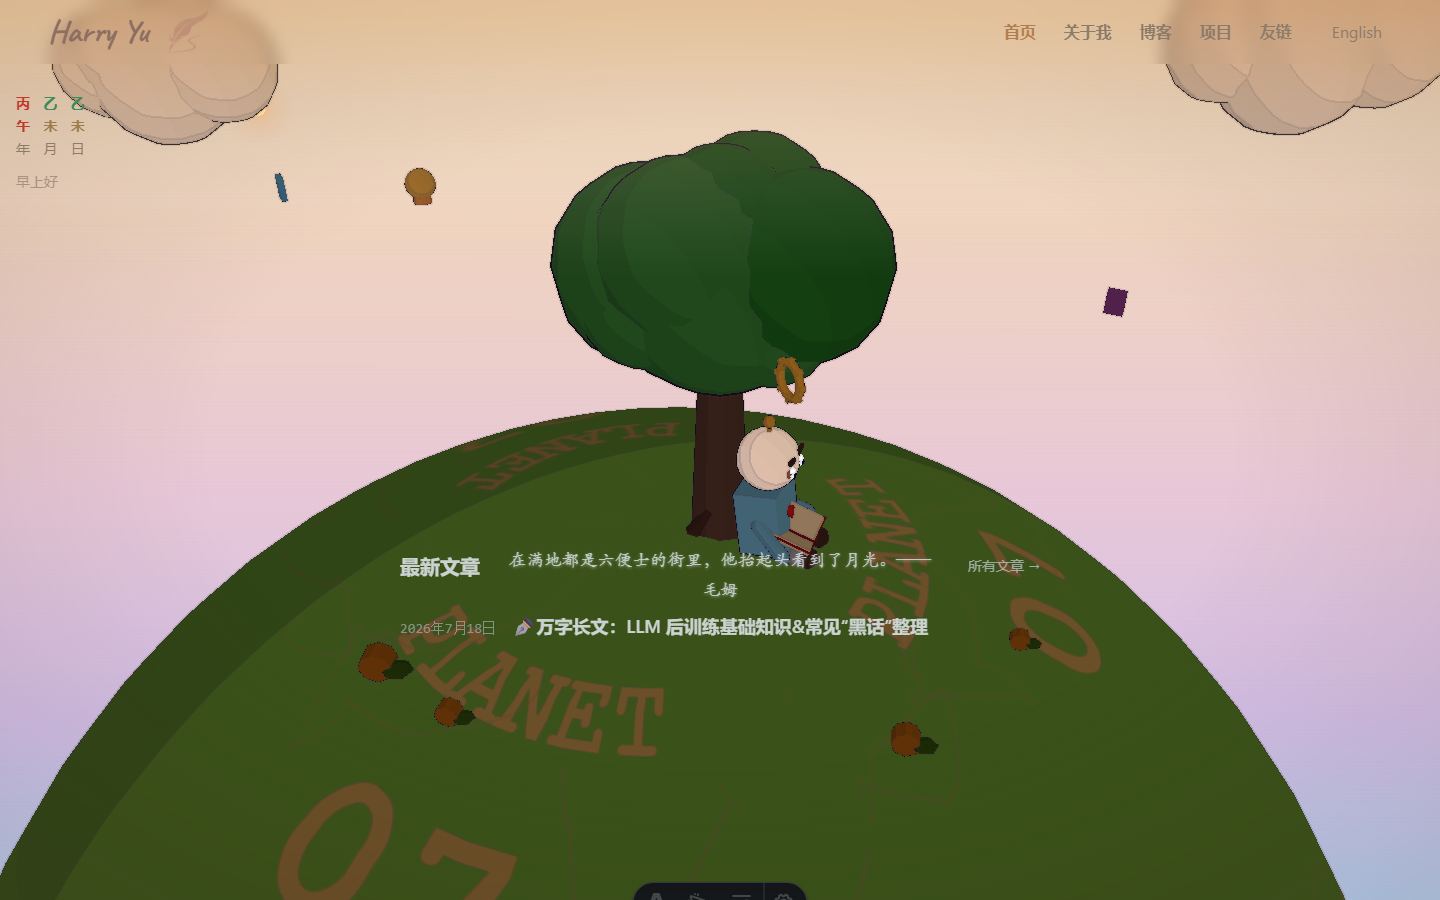
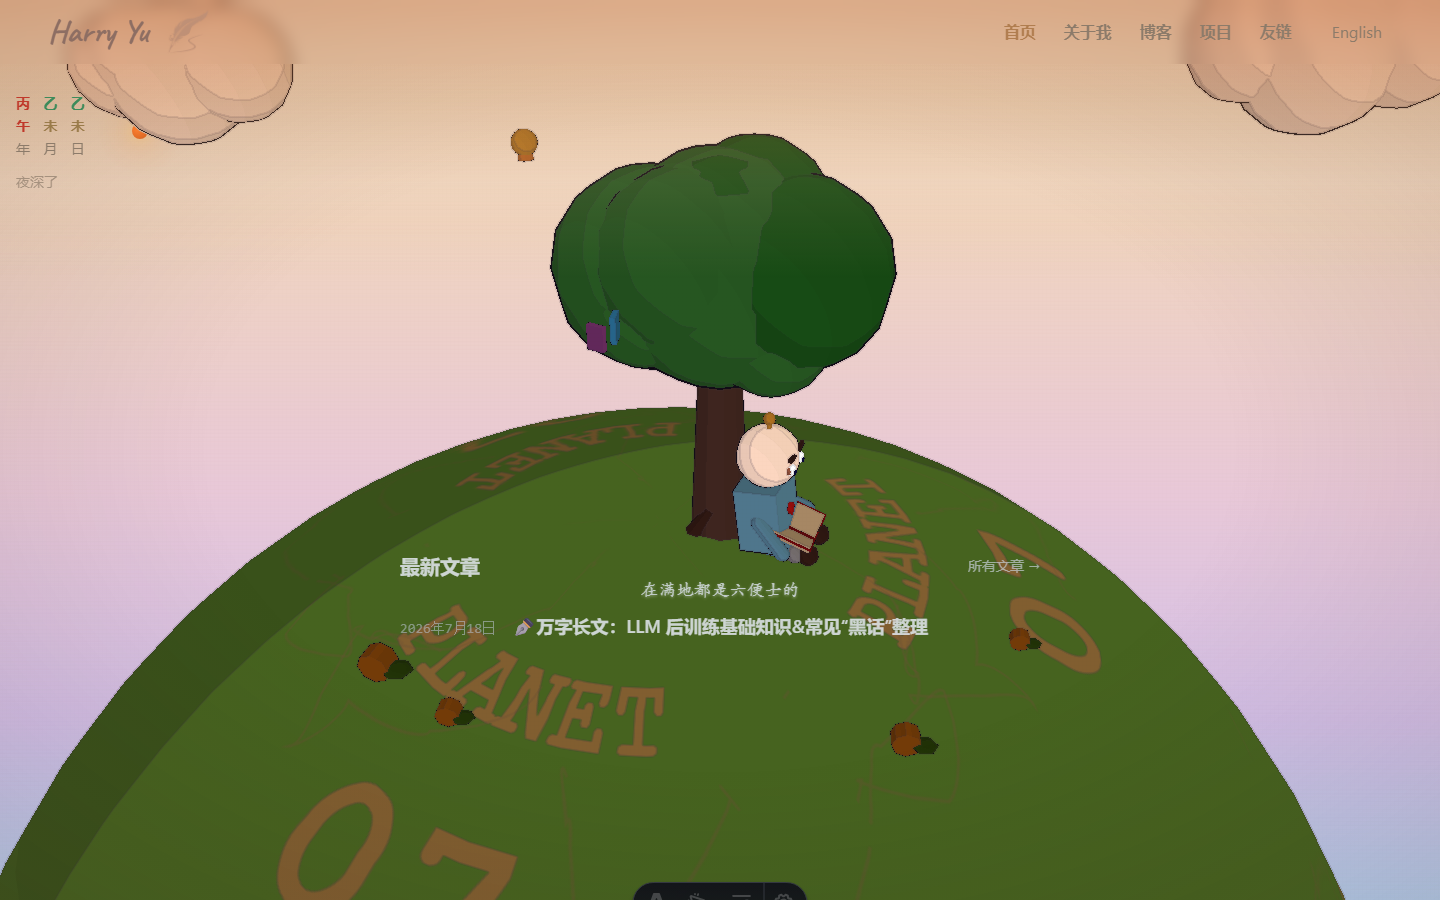
fix: damp distant sun camera motion

diff --git a/src/3d/background.ts b/src/3d/background.ts
@@ -12,7 +12,9 @@ import {
   DEFAULT_ORBIT_HORIZONTAL,
   DEFAULT_ORBIT_VERTICAL,
   projectConvexMeshToScreen,
+  scaleOrbitAngleForDistance,
   screenPointToWorld,
+  SUN_WORLD_DISTANCE,
   worldPointToScreen,
 } from './sky-depth-sync';
 
@@ -33,6 +35,7 @@ scene.background = new THREE.CanvasTexture(bgCanvas);
 // ── Camera ──
 const camera = new THREE.PerspectiveCamera(45, W / H, 1, 2000);
 camera.position.set(0, 50, 350); camera.lookAt(0, 30, 0);
+const sunProjectionCamera = camera.clone();
 
 // ── Renderer ──
 const renderer = new THREE.WebGLRenderer({ antialias: true, preserveDrawingBuffer: true });
@@ -350,9 +353,9 @@ const ORBIT_CENTER = new THREE.Vector3(20, 35, 0);
 const ORBIT_RADIUS = _mobile ? 480 : 350;
 
 // ── CSS sun / 3D cloud depth sync ──
-// The sun keeps its existing DOM/CSS painting. Only its world projection and
-// the cloud-shaped mask come from this scene, so camera motion and occlusion
-// use the exact same camera matrix as the clouds.
+// The sun keeps its existing DOM/CSS painting and reference height. Clouds use
+// the scene camera directly; the distant sun responds by sceneRadius / sunRadius,
+// producing the smaller angular motion expected from the far layer.
 let sunWorldPosition: THREE.Vector3 | null = null;
 let lastDepthSyncFrame = -Infinity;
 const depthSyncWorldPoint = new THREE.Vector3();
@@ -405,7 +408,26 @@ function postDepthSyncFrame(timestamp: number) {
 
   camera.updateMatrixWorld(true);
   scene.updateMatrixWorld(true);
-  const sun = worldPointToScreen(camera, sunWorldPosition, W, H);
+  const sunOrbitHorizontal = scaleOrbitAngleForDistance(
+    orbitH,
+    DEFAULT_ORBIT_HORIZONTAL,
+    ORBIT_RADIUS,
+    SUN_WORLD_DISTANCE,
+  );
+  const sunOrbitVertical = scaleOrbitAngleForDistance(
+    orbitV,
+    DEFAULT_ORBIT_VERTICAL,
+    ORBIT_RADIUS,
+    SUN_WORLD_DISTANCE,
+  );
+  applyOrbitCameraPose(
+    sunProjectionCamera,
+    ORBIT_CENTER,
+    ORBIT_RADIUS,
+    sunOrbitHorizontal,
+    sunOrbitVertical,
+  );
+  const sun = worldPointToScreen(sunProjectionCamera, sunWorldPosition, W, H);
   const sunDepth = -depthSyncCameraPoint
     .copy(sunWorldPosition)
     .applyMatrix4(camera.matrixWorldInverse)
@@ -509,6 +531,7 @@ animate();
 window.addEventListener('resize', () => {
   W = container.clientWidth; H = container.clientHeight;
   camera.aspect = W / H; camera.updateProjectionMatrix();
+  sunProjectionCamera.aspect = W / H; sunProjectionCamera.updateProjectionMatrix();
   renderer.setSize(W, H); composer.setSize(W, H);
 });
 

diff --git a/src/3d/sky-depth-sync.ts b/src/3d/sky-depth-sync.ts
@@ -14,6 +14,16 @@ export interface ScreenPolygon {
   points: Array<{ x: number; y: number }>;
 }
 
+export function scaleOrbitAngleForDistance(
+  currentAngle: number,
+  referenceAngle: number,
+  sceneRadius: number,
+  distantRadius: number,
+) {
+  const response = Math.max(0, Math.min(1, sceneRadius / distantRadius));
+  return referenceAngle + (currentAngle - referenceAngle) * response;
+}
+
 export function applyOrbitCameraPose(
   camera: THREE.PerspectiveCamera,
   center: THREE.Vector3,

diff --git a/record/cloud-sun-depth-sync.md b/record/cloud-sun-depth-sync.md
@@ -10,8 +10,9 @@
 ## 自动回归结果
 
 - 默认相机下，3D 投影后的太阳中心与原 CSS 轨迹中心误差：桌面 `(0px, 0px)`，手机 `(0px, 0px)`。
-- 固定时间约 07:02、默认俯仰 `0.35` 时，云轮廓覆盖太阳圆盘约 `81.9%`；截图可见云下沿前方只露出太阳的金色弧边。
-- 相机继续向下俯视后，太阳与取样云轮廓的 Y 位移分别约 `-308.0px`、`-146.3px`，方向一致。
+- 固定时间约 05:46、默认俯仰 `0.35` 时，云轮廓覆盖太阳圆盘约 `18.8%`；截图可见云下沿遮住太阳的一部分。
+- 太阳的相机旋转响应按“场景半径 ÷ 太阳远端半径”计算：桌面约 `29.2%`，手机约 `40%`。
+- 相机继续向下俯视后，太阳与取样云轮廓的 Y 位移分别约 `-64.7px`、`-118.3px`，方向一致，太阳屏幕位移约为云的 `54.7%`。
 - 页面滚动 500px 后触发时间更新，太阳没有跟随正文滚动发生跳变。
 - 首页在 `320px`、`390px`、`430px` 下无横向溢出；锁定的桌面博客布局也未漂移。
 